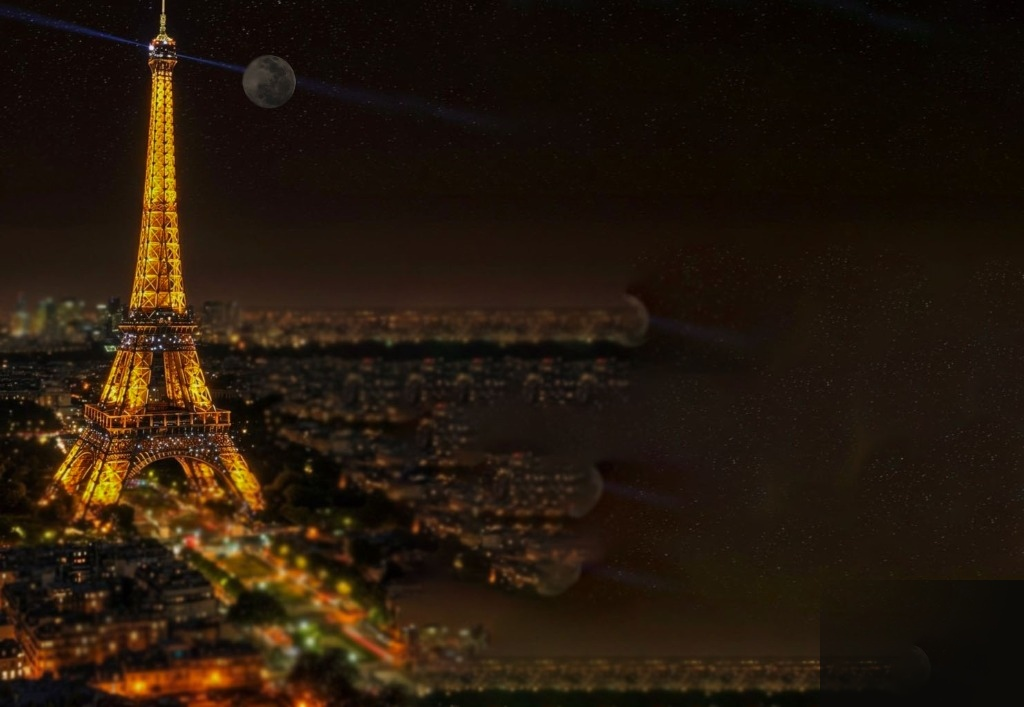
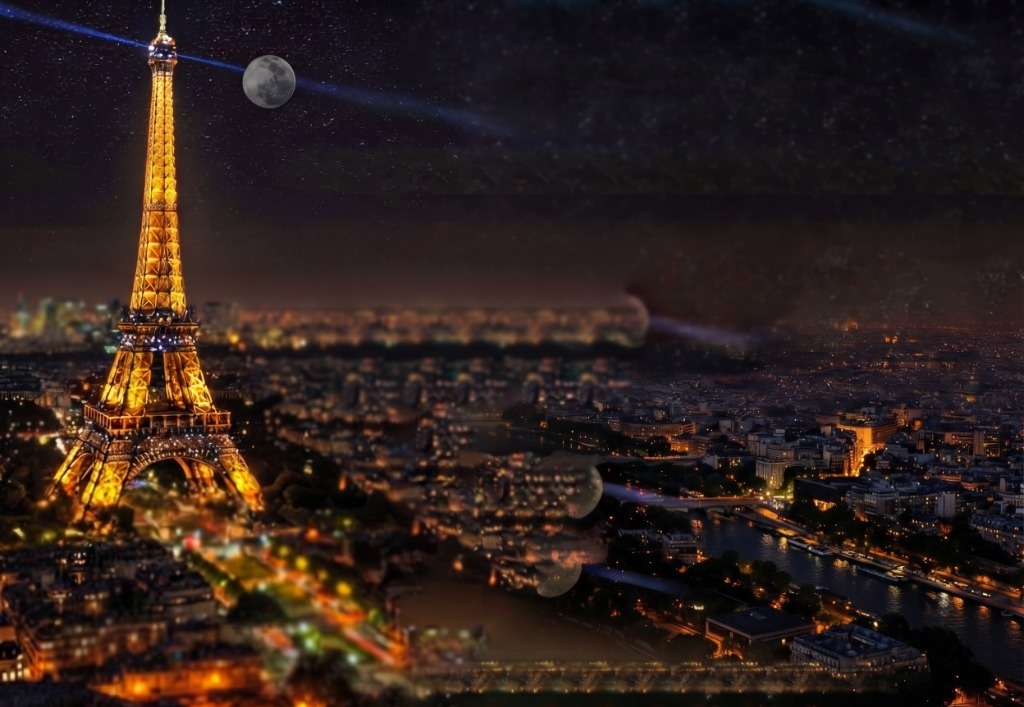
feat: replace background with Seine river night scene, remove pagination/pause bar, and enable continuous autoplay

diff --git a/frontend/src/components/home/PerfumeShelfHero.jsx b/frontend/src/components/home/PerfumeShelfHero.jsx
@@ -3,9 +3,7 @@ import { motion, AnimatePresence } from 'framer-motion';
 import { useNavigate } from 'react-router-dom';
 import {
   ChevronLeft,
-  ChevronRight,
-  Play,
-  Pause
+  ChevronRight
 } from 'lucide-react';
 import { useLanguage } from '../../context/LanguageContext';
 
@@ -213,7 +211,6 @@ const PerfumeShelfHero = ({ products = [] }) => {
   const { language } = useLanguage();
 
   const [activeIndex, setActiveIndex] = useState(0);
-  const [isPaused, setIsPaused] = useState(false);
   const [slotSpacing, setSlotSpacing] = useState(285);
 
   // Responsive horizontal spacing for standalone 3D bottles
@@ -242,14 +239,13 @@ const PerfumeShelfHero = ({ products = [] }) => {
     setActiveIndex((prev) => (prev - 1 + totalItems) % totalItems);
   }, [totalItems]);
 
-  // Auto-advance spotlight from perfume to perfume
+  // Always-active continuous automatic rotation
   useEffect(() => {
-    if (isPaused) return;
     const timer = setInterval(() => {
       nextPerfume();
     }, 4500);
     return () => clearInterval(timer);
-  }, [isPaused, nextPerfume]);
+  }, [nextPerfume]);
 
   // Shortest-path circular offset so selected bottle shifts smoothly into center
   const getOffset = (index) => {
@@ -266,8 +262,6 @@ const PerfumeShelfHero = ({ products = [] }) => {
   return (
     <section
       className="relative w-full min-h-[88dvh] bg-[#0B0A09] text-[#F5F0E8] flex flex-col justify-center pt-28 sm:pt-32 pb-12 overflow-hidden select-none"
-      onMouseEnter={() => setIsPaused(true)}
-      onMouseLeave={() => setIsPaused(false)}
     >
       {/* Cinematic Nighttime Paris Background with Eiffel Tower on Left & Atmospheric Perfume Backdrop */}
       <div
@@ -489,34 +483,6 @@ const PerfumeShelfHero = ({ products = [] }) => {
               );
             })}
           </motion.div>
-
-          {/* Pagination Dots & Auto-Play Control */}
-          <div className="flex items-center justify-center gap-3 mt-4">
-            <button
-              type="button"
-              onClick={() => setIsPaused((p) => !p)}
-              className="p-1.5 rounded-lg bg-[#151310] border border-[#2C2C2C] text-[#F5F0E8]/70 hover:text-[#C5A36A] transition cursor-pointer"
-              title={isPaused ? 'تشغيل التنقل التلقائي' : 'إيقاف التنقل التلقائي'}
-            >
-              {isPaused ? <Play className="w-3.5 h-3.5" /> : <Pause className="w-3.5 h-3.5" />}
-            </button>
-
-            <div className="flex items-center gap-1.5">
-              {LUXURY_3D_PERFUMES.map((p, idx) => (
-                <button
-                  key={p.id}
-                  type="button"
-                  onClick={() => setActiveIndex(idx)}
-                  aria-label={p.fullModel}
-                  className={`h-2 rounded-full transition-all duration-300 cursor-pointer ${
-                    idx === activeIndex
-                      ? 'w-7 bg-[#C5A36A] shadow-sm shadow-[#C5A36A]/50'
-                      : 'w-2 bg-[#2C2C2C] hover:bg-[#C5A36A]/50'
-                  }`}
-                />
-              ))}
-            </div>
-          </div>
         </div>
       </div>
 
